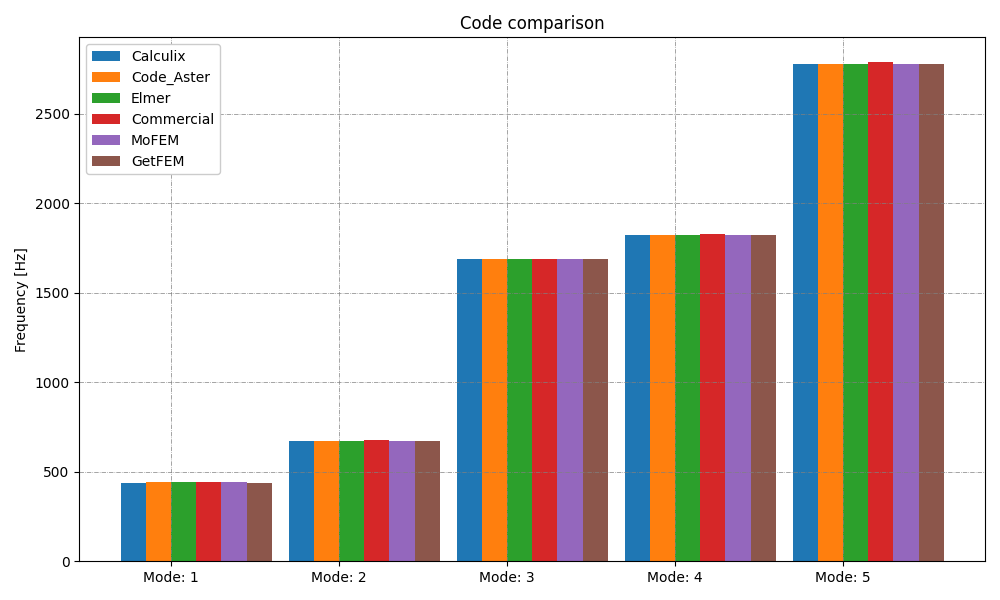
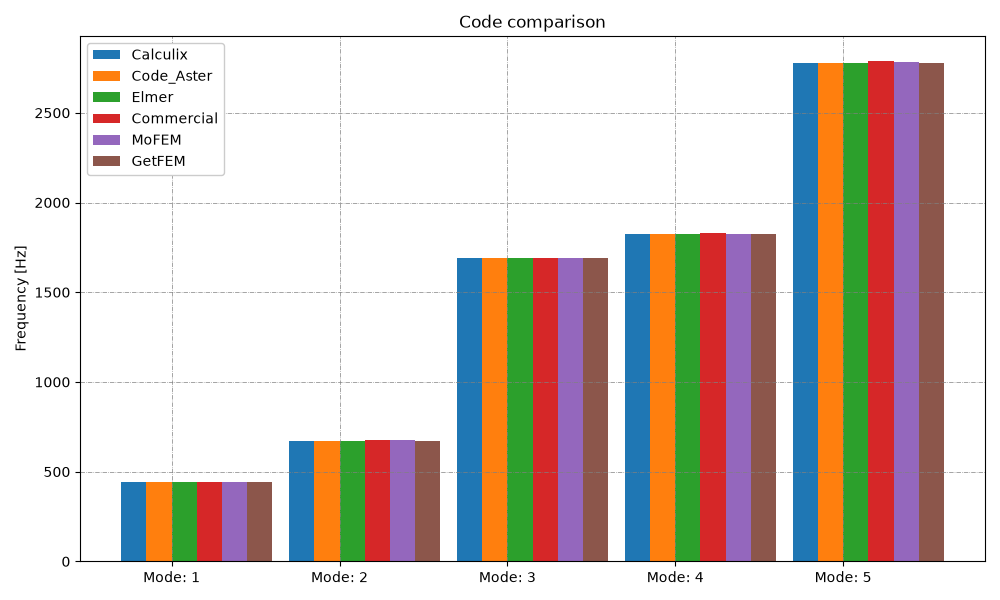
Refactor element types in input files and update benchmark results for accuracy

diff --git a/docs/benchmarks/000-tuning-fork/results.md b/docs/benchmarks/000-tuning-fork/results.md
@@ -24,11 +24,11 @@ A few conclusions can be derived from the presented study:
 
 | Frequency      | Commercial code    | Calculix    | Code Aster    |  Elmer     |  MoFEM     |  GetFEM    |
 |----------------|:------------------:|:-----------:|:-------------:|:----------:|:----------:|:----------:|
-|              1 |      440.33 Hz     |  440.05 Hz  |   440.91 Hz   |  440.91 Hz |  441.0 Hz  |  439.87 Hz |
-|              2 |      675.80 Hz     |  673.51 Hz  |   673.57 Hz   |  673.57 Hz |  674.4 Hz  |  673.37 Hz |
-|              3 |     1689.51 Hz     |  1689.30 Hz |   1689.37 Hz  | 1689.37 Hz | 1690.3 Hz  | 1688.53 Hz |
-|              4 |     1827.55 Hz     |  1825.55 Hz |   1825.63 Hz  | 1825.63 Hz | 1825.7 Hz  | 1825.37 Hz |
-|              5 |     2788.66 Hz     |  2777.73 Hz |   2777.56 Hz  | 2777.56 Hz | 2781.3 Hz  | 2776.80 Hz |
+|              1 |      440.33 Hz     |  440.09 Hz  |   440.09 Hz   |  440.09 Hz |  441.0 Hz  |  439.87 Hz |
+|              2 |      675.80 Hz     |  673.56 Hz  |   673.57 Hz   |  673.57 Hz |  674.4 Hz  |  673.37 Hz |
+|              3 |     1689.51 Hz     |  1689.37 Hz |   1689.37 Hz  | 1689.37 Hz | 1690.3 Hz  | 1688.53 Hz |
+|              4 |     1827.55 Hz     |  1825.63 Hz |   1825.63 Hz  | 1825.63 Hz | 1825.7 Hz  | 1825.37 Hz |
+|              5 |     2788.66 Hz     |  2777.56 Hz |   2777.56 Hz  | 2777.56 Hz | 2781.3 Hz  | 2776.80 Hz |
 
 ```{figure} ./code-comparison.png
 ---
@@ -70,7 +70,7 @@ Graph representing results of the simulation with tetrahedral mesh
 
 | Solver                |Mesh element size = 2mm  | Mesh element size = 1mm | Mesh element size = 0.5mm |
 |-----------------------|-----------------------  |-------------------------|---------------------------|
-| CalculiX              |  388.67 Hz              |  415.79 Hz              |  434.17 Hz                |
+| CalculiX              |  496.87 Hz              |  455.34 Hz              |  444.22 Hz                |
 | Code_Aster            |  496.87 Hz              |  455.34 Hz              |  444.22 Hz                |
 | Elmer                 |  496.87 Hz              |  455.34 Hz              |  444.22 Hz                |
 | GetFEM                |  496.88 Hz              |  455.35 Hz              |  444.23 Hz                |
@@ -79,7 +79,7 @@ Graph representing results of the simulation with tetrahedral mesh
 
 | Solver                |Mesh element size = 2mm  | Mesh element size = 1mm | Mesh element size = 0.5mm |
 |-----------------------|-----------------------  |-------------------------|---------------------------|
-| CalculiX              |  440.57 Hz              |  440.34 Hz              |  440.05 Hz                |
+| CalculiX              |  441.10 Hz              |  440.49 Hz              |  440.09 Hz                |
 | Code_Aster            |  441.10 Hz              |  440.49 Hz              |  440.09 Hz                |
 | Elmer                 |  441.10 Hz              |  440.49 Hz              |  440.09 Hz                |
 | GetFEM                |  436.32 Hz              |  439.97 Hz              |  439.87 Hz                |
